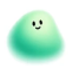
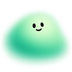
fix: 참여자 캐릭터 배경 투명(N-30), 대기실·시작 확인 목록 대표자 먼저
- 민트·피치·하늘 캐릭터: 흰 불투명 상자가 있던 그림을 Figma Brand / Character(8:122·8:152·27:277)의 SVG 층(몸 색 × 부드러운 테두리 마스크 + 얼굴)으로 다시 합성. 연보라 위에 깔면 Figma 내보내기와 평균 1/255 차이
- 단위 테스트: 캐릭터 그림 모서리 투명·흰 불투명 픽셀 없음
- 서버가 참여자를 id 순으로 주므로 대기실·시작 확인 목록은 대표자 먼저(Figma 527:3097). 개인 보정 카드는 "나" 먼저 그대로
- e2e: id 순 목업에서 대표자 먼저(참여자·대표자 화면, 시작 확인)

diff --git a/picsinc-merge/tests/e2e/retouch-room.spec.ts b/picsinc-merge/tests/e2e/retouch-room.spec.ts
@@ -13,7 +13,7 @@ async function backend(page:Page,initialRoom:CollaborationView,png:Buffer,width:
  const actions:string[]=[];
  let releaseSave:(()=>void)|undefined; let saveGate:Promise<void>|undefined;
  let claims:Array<{regionId:string;participantId:string;nickname:string}>=[];
- const snapshot=()=>({session:{id:'session',inviteToken:roomId,ownerParticipantId:'owner',originalAssetId:'original',version:5,createdAt:new Date().toISOString(),expiresAt:new Date(Date.now()+86400000).toISOString()},currentParticipantId:participantId,participants:[{id:'owner',sessionId:'session',nickname:'민선',submitted:state.completedIds.includes('owner')},{id:'friend',sessionId:'session',nickname:'예솔',submitted:true},...(state.rosterIds.includes('third')?[{id:'third',sessionId:'session',nickname:'지연',submitted:state.completedIds.includes('third')}]:[])],assets:[{id:'original',kind:'original',width,height,contentType:'image/png'}],originalSelections:initialRoom.personalToken&&mask?[{participantId,maskAssetId:'mask',selectedRegionIds:['region-1']}]:[],selections:[],result:null});
+ const snapshot=()=>({session:{id:'session',inviteToken:roomId,ownerParticipantId:'owner',originalAssetId:'original',version:5,createdAt:new Date().toISOString(),expiresAt:new Date(Date.now()+86400000).toISOString()},currentParticipantId:participantId,participants:[{id:'owner',sessionId:'session',nickname:'민선',submitted:state.completedIds.includes('owner')},{id:'friend',sessionId:'session',nickname:'예솔',submitted:true},...(state.rosterIds.includes('third')?[{id:'third',sessionId:'session',nickname:'지연',submitted:state.completedIds.includes('third')}]:[])].sort((x,y)=>(state as {byId?:boolean}).byId?x.id.localeCompare(y.id):0),assets:[{id:'original',kind:'original',width,height,contentType:'image/png'}],originalSelections:initialRoom.personalToken&&mask?[{participantId,maskAssetId:'mask',selectedRegionIds:['region-1']}]:[],selections:[],result:null});
  await page.route('**/api/**',async route=>{
   const request=route.request(),path=new URL(request.url()).pathname;
   const json=(data:unknown,status=200)=>route.fulfill({status,json:data});
@@ -345,6 +345,23 @@ test('other editor blocks global entry and review blocks every new edit', async 
  await expect(page.getByRole('button',{name:'터치 보정으로 전체 다듬기',exact:true})).toHaveCount(0);
  await page.reload();await expect(page.getByRole('button',{name:'최종 완료',exact:true})).toBeVisible();
  await expect(page.getByRole('button',{name:'완료',exact:true})).toHaveCount(0);
+});
+
+test('lobby and start confirm list the host first even when the server sorts by id', async ({page,context}) => {
+ const png=await sharp({create:{width:40,height:40,channels:3,background:'#bcbcbc'}}).png().toBuffer();
+ // By id the host ('owner') lands between 'friend' and 'third', which is what put the host in the middle.
+ const state={...initial('lobby'),rosterIds:[],completedIds:[],byId:true} as ReturnType<typeof initial>;
+ const friend=await context.newPage();await backend(friend,{...state,rosterIds:['owner','friend','third']},png,40,40,undefined,'friend');
+ await friend.goto(`/retouch/rooms/${roomId}`);
+ const friendList=friend.getByRole('region',{name:'친구 보정 현황'}).getByRole('listitem');
+ await expect(friendList).toHaveCount(3);await expect(friendList.first()).toContainText('민선');await expect(friendList.nth(1)).toContainText('예솔 (나)');
+ await friend.close();
+ await backend(page,{...state,rosterIds:['owner','friend','third']},png,40,40);
+ await page.goto(`/retouch/rooms/${roomId}`);
+ const list=page.getByRole('region',{name:'친구 보정 현황'}).getByRole('listitem');
+ await expect(list).toHaveCount(3);await expect(list.first()).toContainText('민선 (나)');
+ await page.getByRole('button',{name:'시작하기',exact:true}).click();
+ await expect(list.first()).toContainText('민선');await expect(list.nth(1)).toContainText('예솔');
 });
 
 test('lobby shows short join and copy notices, and leaving asks first', async ({page,context}) => {

diff --git a/picsinc-merge/src/features/mobile-flow/characters.test.ts b/picsinc-merge/src/features/mobile-flow/characters.test.ts
@@ -10,6 +10,20 @@ test("each person gets a different character, host first, in Figma order", () =>
   assert.equal(characterFor(mergeCharacters, ["host", "guest"], "host", "guest"), "/images/figma-current/home/pink.png");
 });
 
+test("every character image is see-through around the body (N-30)", async () => {
+  const sharp = (await import("sharp")).default;
+  for (const name of new Set([...roomCharacters, ...mergeCharacters])) {
+    const { data, info } = await sharp(`public/images/figma-current/home/${name}.png`).ensureAlpha().raw().toBuffer({ resolveWithObject: true });
+    const alpha = (x: number, y: number) => data[(y * info.width + x) * 4 + 3];
+    for (const [x, y] of [[0, 0], [info.width - 1, 0], [0, info.height - 1], [info.width - 1, info.height - 1]]) assert.equal(alpha(x, y), 0, `${name} corner ${x},${y}`);
+    assert.equal(alpha(Math.floor(info.width / 2), Math.floor(info.height * 0.6)), 255, `${name} body`);
+    // The broken crops had a white box that was only see-through at the very edge.
+    let whiteBox = 0;
+    for (let i = 0; i < data.length; i += 4) if (data[i + 3] >= 250 && data[i] > 235 && data[i + 1] > 235 && data[i + 2] > 235) whiteBox++;
+    assert.equal(whiteBox, 0, `${name} has opaque white pixels`);
+  }
+});
+
 test("five people all differ, and a missing host falls back to join order", () => {
   const ids = ["h", "a", "b", "c", "d"];
   assert.equal(new Set(ids.map(id => characterFor(roomCharacters, ids, "h", id))).size, 5);

diff --git a/picsinc-merge/src/features/mobile-flow/ParticipantStatus.tsx b/picsinc-merge/src/features/mobile-flow/ParticipantStatus.tsx
@@ -2,7 +2,9 @@ import type { Participant } from '@/core/contracts';
 import styles from '@/features/retouch-room-flow/room.module.css';
 import { characterFor, roomCharacters } from './characters';
 export default function ParticipantStatus({ participants, completedIds, currentId, rosterIds, ownerId, compact = false }: { participants: Participant[]; completedIds: string[]; currentId: string; rosterIds: string[]; ownerId?: string; compact?: boolean }) {
-  const roster = rosterIds.length ? participants.filter(p => rosterIds.includes(p.id)) : participants;
+  const inRoom = rosterIds.length ? participants.filter(p => rosterIds.includes(p.id)) : participants;
+  // The server lists people by id, so put the host first as in Figma 527:3097 (lobby, start confirm).
+  const roster = [...inRoom.filter(p => p.id === ownerId), ...inRoom.filter(p => p.id !== ownerId)];
   // Figma 527:7354: the editor cards list me first as "나", then friends.
   const people = compact ? [...roster.filter(p => p.id === currentId), ...roster.filter(p => p.id !== currentId)] : roster;
   const lobby = !rosterIds.length;

diff --git a/picsinc-merge/public/images/figma-current/home/SOURCES.md b/picsinc-merge/public/images/figma-current/home/SOURCES.md
@@ -8,6 +8,6 @@ Source: Figma file `RuyZOuRcQIN6M5RYjR6vJE`, frame `656:16586`, inspected 2026-1
 
 - `lilac.png`, `pink.png`: transparent complete artwork frames `I656:16900;157:7146` and `I656:16901;157:7341`, exported read-only through `use_figma`. The enclosing Figma frame has a background fill, so the inner frame containing both the body group and sibling facial-feature vectors is exported. Dimensions: 72 × 72 and 70 × 70.
 
-- `mint.png`, `peach.png`, `sky.png` (2026-11-12, participant colors a2): cropped from `../merge/composing-characters.png` (Figma `619:16891`) at the loading-screen slots x=294, 108, 232 (y=88, 60 × 66), trimmed and centered on a transparent 72 × 72 canvas. A direct export of the Figma character masters (`8:122`, `8:152`, `27:277`) keeps a light lilac tint from their luminance mask, so the transparent loading artwork is used instead.
+- `mint.png`, `peach.png`, `sky.png` (2026-11-12, participant colors a2, transparency fix N-30): rebuilt from the Figma `Brand / Character` Default variants (`8:122`, `8:152`, `27:277`). A plain PNG export of those nodes is opaque on the `#e8deff` frame colour, so the three SVG layers from `download_assets` were composited instead, at 2× and shrunk to 72 × 72: the body colour layer (placed at −11.566, −11.566), multiplied by the luminance of the soft-edge mask layer (its black square aligned to the 160 frame), plus the face layer at the Figma face position. Flattened on `#e8deff` it matches the Figma export within about 1/255 on average.
 
 The illustration also reuses `../character-photo.png` and `../moira-logo.svg`.
